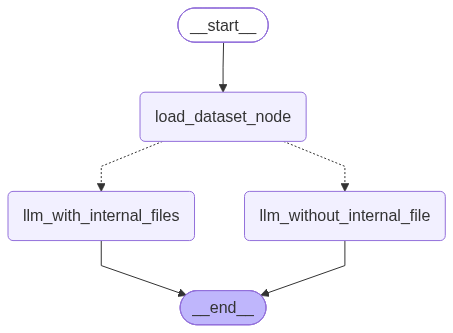
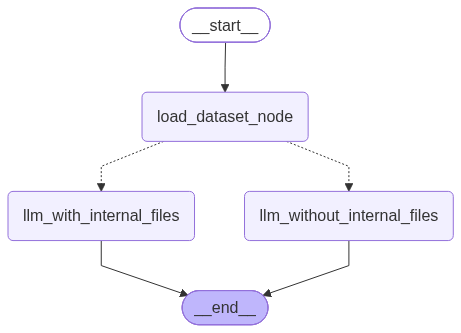
Fixed Bugs

diff --git a/graph.py b/graph.py
@@ -2,36 +2,34 @@ from langgraph.graph import START, END, StateGraph
 from model.state import OverAllState
 from nodes.load_dataset_node import load_dataset_node
 from nodes.llm_with_internal_files import llm_with_internal_files
-from nodes.llm_without_internal_file import llm_without_internal_file
-
-
+from nodes.llm_without_internal_files import llm_without_internal_files
 
 def route_within_files(state: OverAllState):
-    if state['contain_files'] == True:
+    if state.contain_files == True:
         return "llm_with_internal_files"
     else:
         return "llm_without_internal_files"
 
-workflow = StateGraph(dict)
+# Use OverAllState instead of dict
+workflow = StateGraph(OverAllState)
 
-# 1. Add the node with a string name
+# 1. Add the nodes
 workflow.add_node("load_dataset_node", load_dataset_node)
 workflow.add_node("llm_with_internal_files", llm_with_internal_files)
-workflow.add_node("llm_without_internal_file", llm_without_internal_file)
-# workflow.add_node("load_dataset_node", load_dataset_node)
+workflow.add_node("llm_without_internal_files", llm_without_internal_files)
 
-# 2. Use the string name in the edges (WITH quotes)
+# 2. Use the string name in the edges
 workflow.add_edge(START, "load_dataset_node")
 workflow.add_conditional_edges(
     "load_dataset_node",
     route_within_files,
     {
-        "llm_with_internal_files":"llm_with_internal_files",
-        "llm_without_internal_file":"llm_without_internal_file"
+        "llm_with_internal_files": "llm_with_internal_files",
+        "llm_without_internal_files": "llm_without_internal_files"
     }
 )
 workflow.add_edge("llm_with_internal_files", END)
-workflow.add_edge("llm_without_internal_file", END)
+workflow.add_edge("llm_without_internal_files", END)
 
 app = workflow.compile()
 

diff --git a/nodes/load_dataset_node.py b/nodes/load_dataset_node.py
@@ -4,11 +4,18 @@ import os
 def load_dataset_node(state: OverAllState):
     print(state.input)
     files = state.files
+    if not files:
+        print("No files provided. Proceeding to LLM node...")
+        return {"contain_files": False}
+    
+    # Otherwise, check all provided files
     for file_path in files:
         if not os.path.exists(file_path):
-            print(f"File not found: {file_path}")
+            print(f"Error: File not found -> {file_path}")
+            raise ValueError(f'Error: File not found -> {file_path}')
+            
         else:
-            print('found')
-
-
-    return
+            print(f"Found: {file_path}")
+            
+    # All files exist
+    return {"contain_files": True}

diff --git a/model/state.py b/model/state.py
@@ -1,13 +1,8 @@
+from typing import Optional, List
 from pydantic import BaseModel
-from typing import List, Optional
 
-class InputState(BaseModel):
-    input: str
+class OverAllState(BaseModel):
+    input: str = ""
     files: Optional[List[str]] = None
-
-class OutputState(BaseModel):
-    contain_files: bool
-    output: Optional[str] = None  # Gives it a default so it's not strictly required at initialization
-
-class OverAllState(InputState, OutputState):
-    pass
+    contain_files: Optional[bool] = None
+    output: Optional[str] = None

diff --git a/main.py b/main.py
@@ -1,13 +1,14 @@
 from nodes.load_dataset_node import load_dataset_node
 from model.state import OverAllState
+from graph import app
 def main():
     print("Hello from micro1-eval-hackathon-26!")
 
     initial_state = OverAllState(
         input="Your Query Here",
-        files=[r"test.txt"]
+        # files=[r"test.txt","test2.txt","test3.txt","test4.txt"]
     )
 
-    load_dataset_node(initial_state)
+    app.invoke(initial_state)
 if __name__ == "__main__":
     main()

diff --git a/nodes/llm_without_internal_files.py b/nodes/llm_without_internal_files.py
@@ -1,0 +1,5 @@
+from model.state import OverAllState
+
+def llm_without_internal_files(state: OverAllState):
+    print('llm_without_internal_file')
+    return

diff --git a/nodes/llm_with_internal_files.py b/nodes/llm_with_internal_files.py
@@ -1,4 +1,5 @@
 from model.state import OverAllState
 
 def llm_with_internal_files(state: OverAllState):
+    print('llm_with_internal_files')
     return
